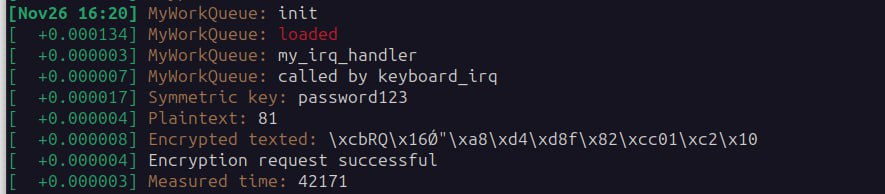
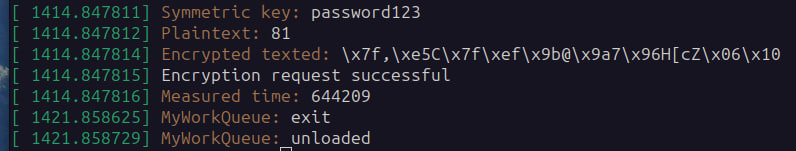
Added hash

Changed region(s): [[0.0, 0.0, 0.995, 1.0]]

diff --git a/src/cryptosk.c b/src/cryptosk.c
@@ -14,9 +14,12 @@
 #include <linux/stddef.h>
 #include <linux/workqueue.h>
 #include <linux/delay.h>
-
+#include <crypto/internal/hash.h>
+#include <linux/module.h>
+ 
 
 #include "my_ascii.h"
+#include "hash.h"
 
  
 #define SYMMETRIC_KEY_LENGTH 32
@@ -52,7 +55,53 @@ static my_work_struct_t *work1;
 int keyboard_irq = 1;
 char *password = "password123";
 
+#define SHA256_LENGTH 32
+ 
+static void show_hash_result(char *plaintext, char *hash_sha256)
+{
+    int i;
+    char str[SHA256_LENGTH * 2 + 1];
+ 
+    pr_info("sha256 test for string: \"%s\"\n", plaintext);
+    for (i = 0; i < SHA256_LENGTH; i++)
+        sprintf(&str[i * 2], "%02x", (unsigned char)hash_sha256[i]);
+    str[i * 2] = 0;
+    pr_info("%s\n", str);
+}
 
+static int cryptosha256_init(char *plaintext) 
+{
+    char hash_sha256[SHA256_LENGTH];
+    struct crypto_shash *sha256;
+    struct shash_desc *shash;
+ 
+    sha256 = crypto_alloc_shash("sha256", 0, 0);
+    if (IS_ERR(sha256))
+        return -1;
+ 
+    shash = kmalloc(sizeof(struct shash_desc) + crypto_shash_descsize(sha256),
+                    GFP_KERNEL);
+    if (!shash)
+        return -ENOMEM;
+ 
+    shash->tfm = sha256;
+ 
+    if (crypto_shash_init(shash))
+        return -1;
+ 
+    if (crypto_shash_update(shash, plaintext, strlen(plaintext)))
+        return -1;
+ 
+    if (crypto_shash_final(shash, hash_sha256))
+        return -1;
+ 
+    kfree(shash);
+    crypto_free_shash(sha256);
+ 
+    show_hash_result(plaintext, hash_sha256);
+ 
+    return 0;
+}
  
 static void test_skcipher_finish(struct skcipher_def *sk)
 {
@@ -287,6 +336,27 @@ static int __init my_workqueue_init(void)
         INIT_WORK((struct work_struct *)work1, work1_func);
         printk(KERN_ERR "MyWorkQueue: loaded");
     }
+    int start = ktime_get();
+    printk(KERN_INFO "MyWorkQueue: my_irq_handler");
+
+    printk(KERN_INFO "MyWorkQueue: called by keyboard_irq");
+
+    int code = 81;
+    unsigned char mesage[SYMMETRIC_KEY_LENGTH];
+
+    
+    
+    for (int i = 0; i < 100; i++)
+    {
+        sprintf((char *)mesage, "%d", code);
+        pr_info("Plaintext: %s\n", (char *)mesage);
+        // test_skcipher_encrypt((char *)mesage, password, &sk);
+        // cryptosha256_init((char *)mesage);
+    }
+
+    int end = ktime_get();
+    printk(KERN_INFO "Measured time: %d", end - start);
+
     return ret;
 }
 
